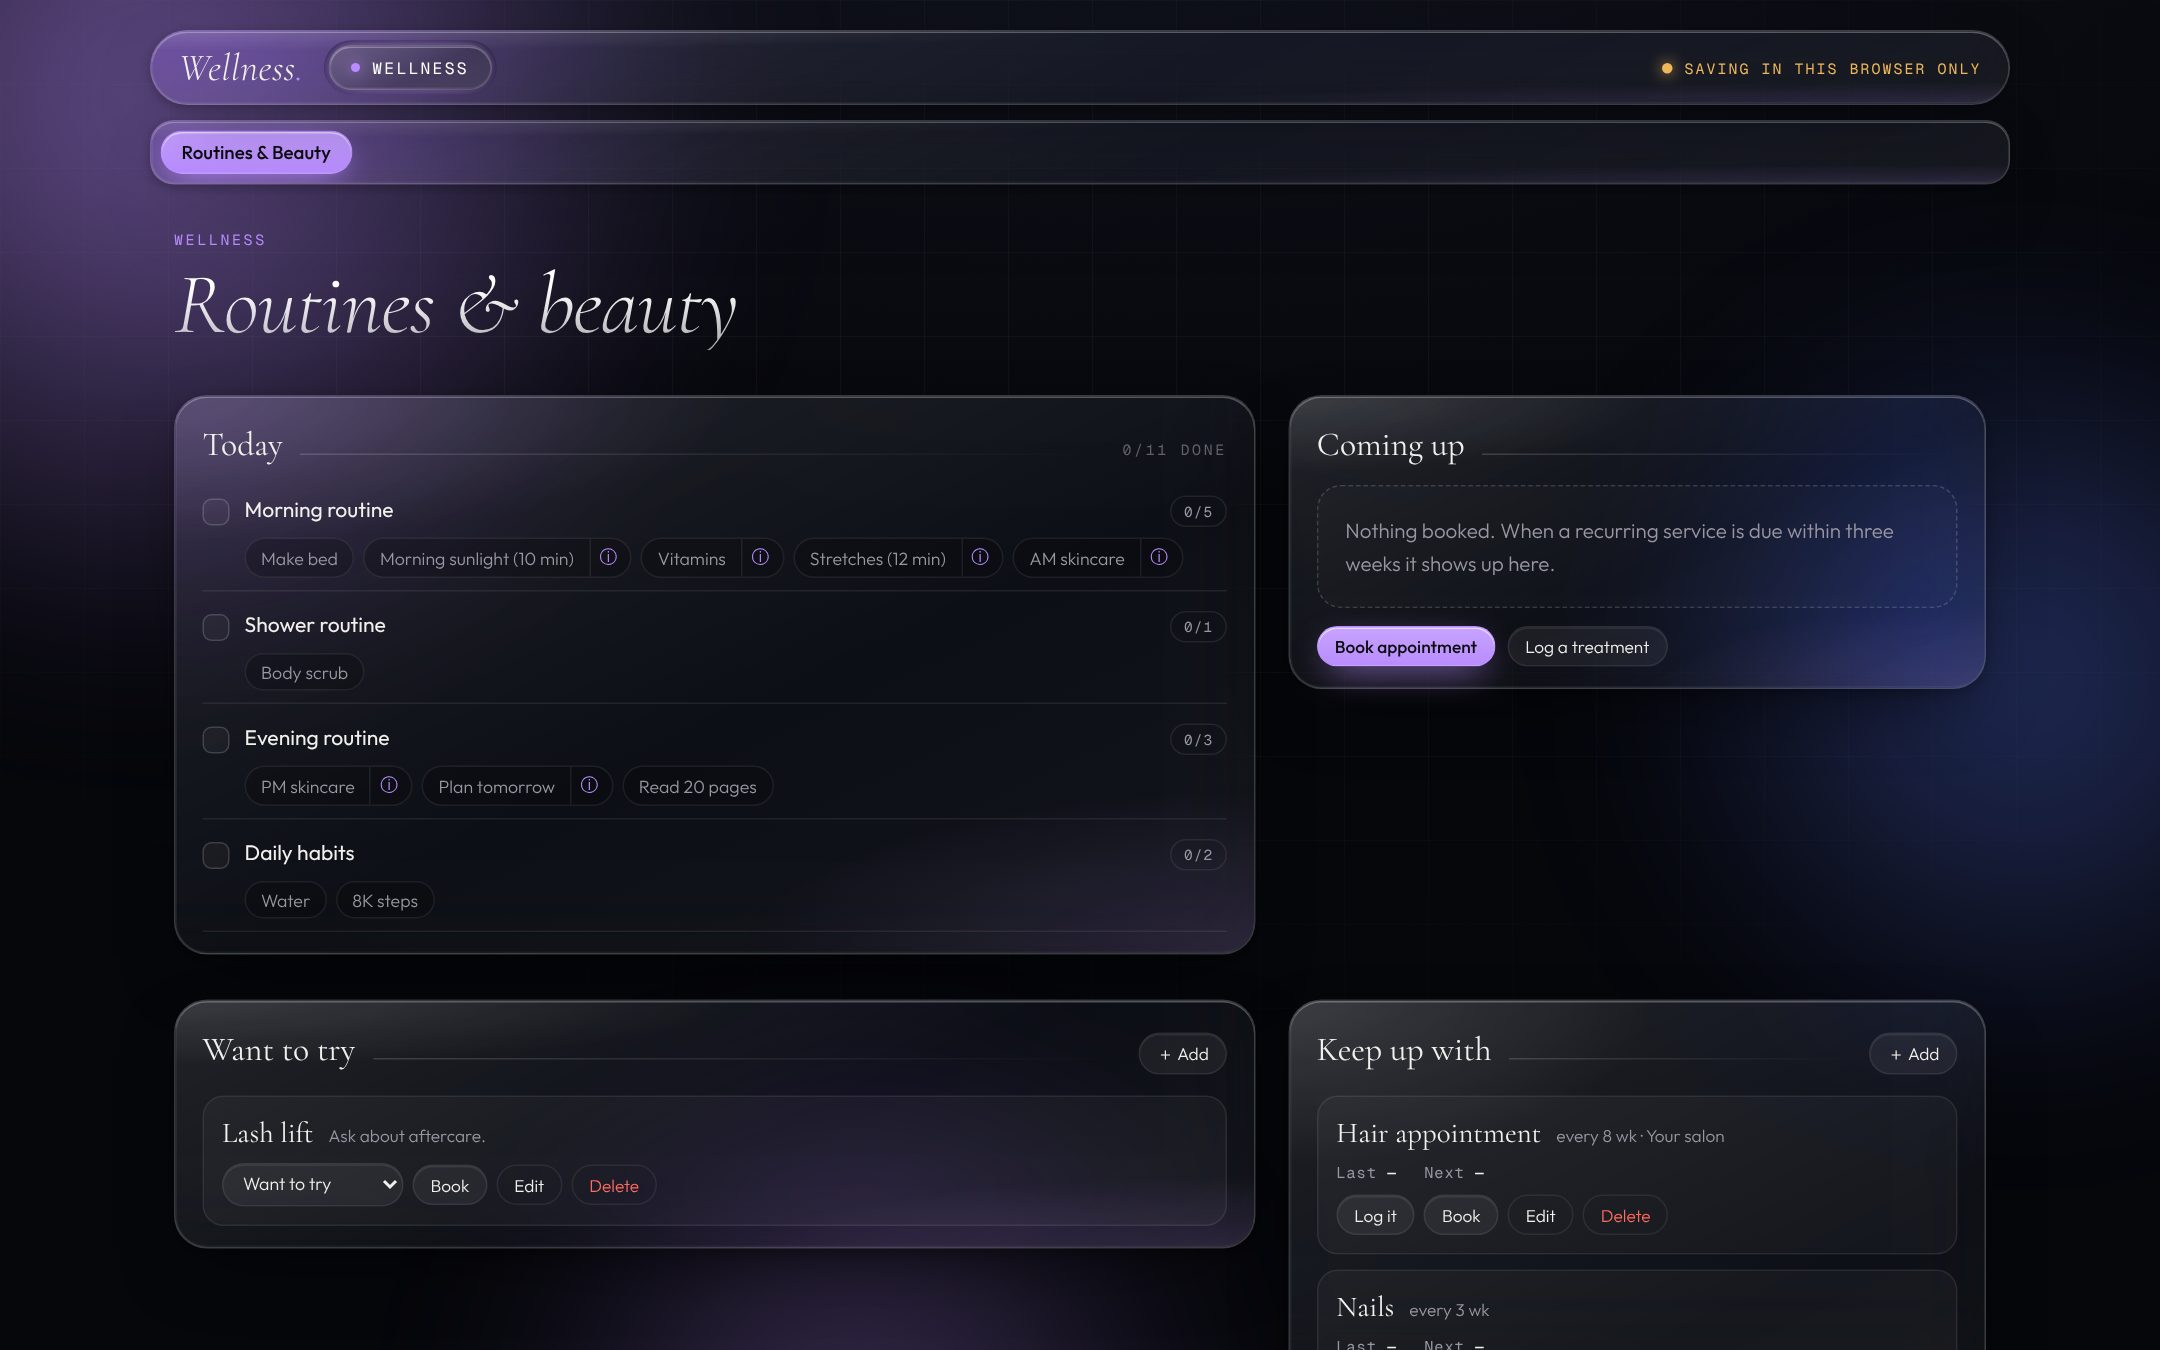
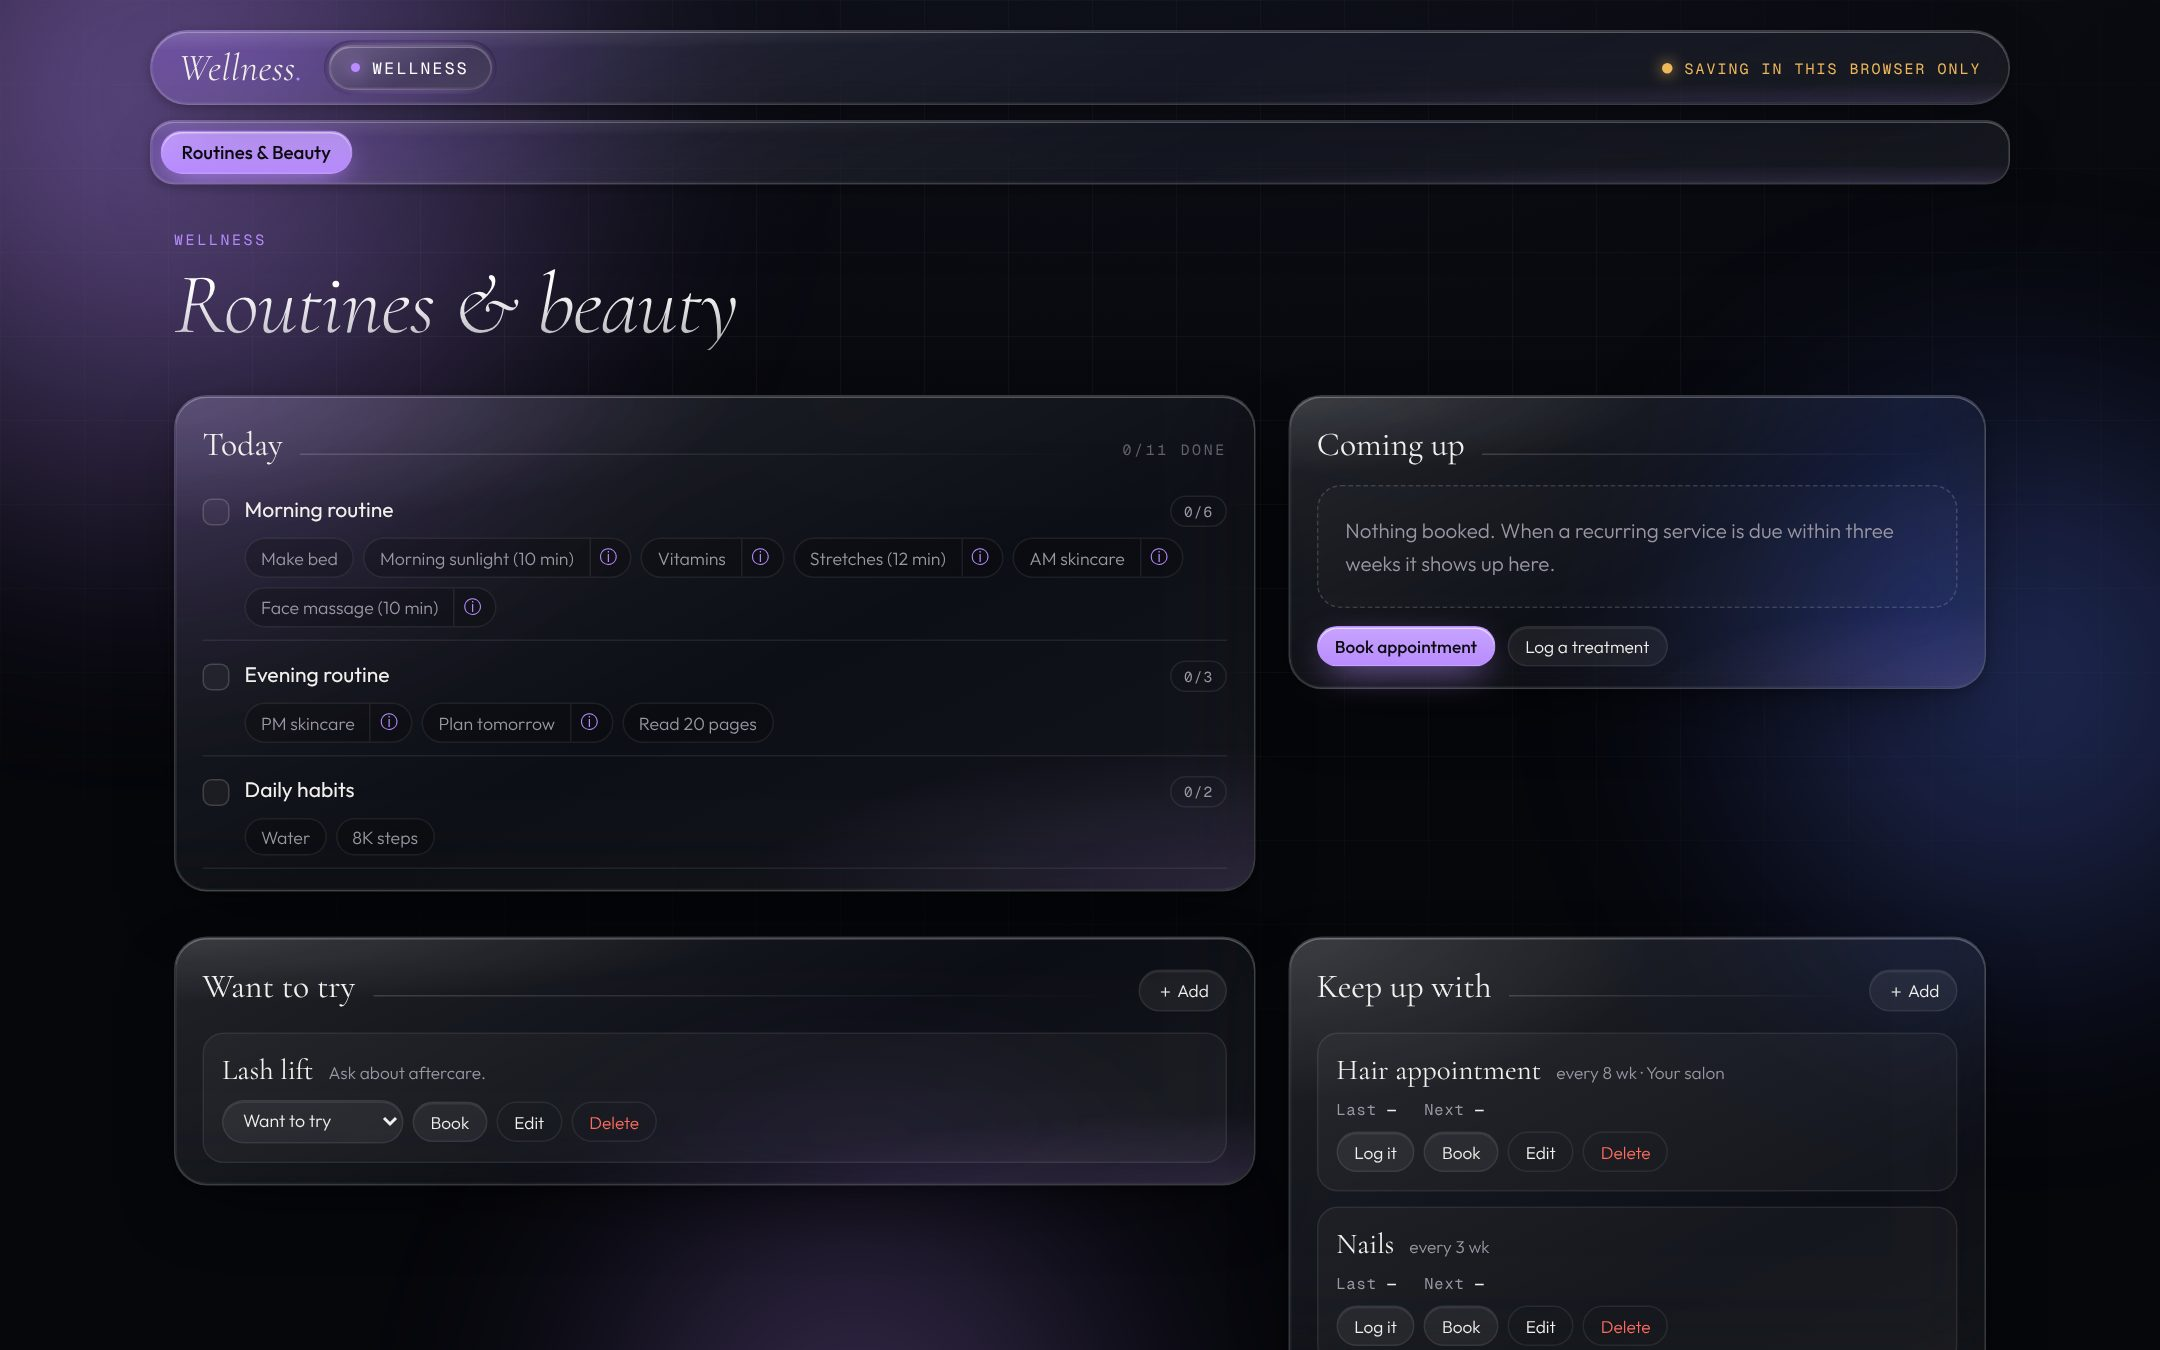
Fix loading overlay, refresh screenshot
Claude-Session: https://claude.ai/code/session_01CsNK5A8DbrxLAGp4MA6A5M

diff --git a/index.html b/index.html
@@ -64,6 +64,7 @@ a{color:inherit}
 .brand span{color:var(--accent);text-shadow:0 0 18px var(--accent)}
 .hubs{display:flex;gap:2px;overflow-x:auto;scrollbar-width:none;min-width:0;padding:3px;border-radius:999px;background:rgba(0,0,0,.22);box-shadow:inset 0 1px 2px rgba(0,0,0,.4)}
 .hubs::-webkit-scrollbar{display:none}
+.loading[hidden]{display:none!important}
 .qnotes{width:100%;min-height:150px;resize:vertical;background:transparent;border:1px solid var(--line, rgba(255,255,255,.12));border-radius:12px;padding:12px 14px;color:inherit;font:inherit;line-height:1.6;outline:none}
 .hubbtn.ext::after{content:'↗';margin-left:6px;opacity:.6}
 .hubbtn{background:none;border:1px solid transparent;border-radius:999px;padding:7px 14px;font-family:var(--mono);font-size:.68rem;letter-spacing:.14em;text-transform:uppercase;color:var(--muted);cursor:pointer;white-space:nowrap;display:flex;align-items:center;gap:8px;transition:color .2s,background .3s}
@@ -662,7 +663,8 @@ window.CONFIG={
   "variant": "wellness"
 };
 window.__DEMO={"wl_habits": [{"id": "bed", "name": "Make bed", "group": "Morning", "days": [1, 1, 1, 1, 1, 1, 1], "active": true, "steps": [], "products": []}, {"id": "sun", "name": "Morning sunlight (10 min)", "group": "Morning", "days": [1, 1, 1, 1, 1, 1, 1], "active": true, "steps": ["Step outside within an hour of waking.", "No sunglasses, 10 minutes, longer if it's cloudy."], "products": []}, {"id": "vit", "name": "Vitamins", "group": "Morning", "days": [1, 1, 1, 1, 1, 1, 1], "active": true, "steps": ["Take them with breakfast.", "Add your own list here."], "products": []}, {"id": "mob", "name": "Stretches (12 min)", "group": "Morning", "days": [1, 1, 1, 1, 1, 1, 1], "active": true, "steps": ["Cat-cow × 10.", "Low-lunge hip flexor stretch, 45 s each side.", "Half split, 45 s each side.", "Figure-4 for the outer hip.", "Butterfly, 1 min."], "products": ["Yoga mat"]}, {"id": "am", "name": "AM skincare", "group": "Morning", "days": [1, 1, 1, 1, 1, 1, 1], "active": true, "steps": ["Cleanse.", "Vitamin C.", "Moisturizer, then SPF."], "products": []}, {"id": "face", "name": "Face massage (10 min)", "group": "Morning", "days": [1, 0, 1, 0, 1, 0, 1], "active": true, "steps": ["Neck and shoulders first.", "Jaw, then lift under the cheekbones.", "Light circles around the eyes, sweep to the temples.", "Sweep down the neck × 5."], "products": ["Facial oil"]}, {"id": "hair", "name": "Hair wash", "group": "Shower", "days": [1, 0, 0, 1, 0, 0, 0], "active": true, "steps": ["Shampoo the scalp twice.", "Condition mid-lengths to ends.", "Leave-in with heat protection."], "products": []}, {"id": "scrub", "name": "Body scrub", "group": "Shower", "days": [0, 1, 0, 0, 0, 1, 0], "active": true, "steps": [], "products": []}, {"id": "pm", "name": "PM skincare", "group": "Evening", "days": [1, 1, 1, 1, 1, 1, 1], "active": true, "steps": ["Cleanse.", "Treatment serum.", "Moisturizer."], "products": []}, {"id": "plan", "name": "Plan tomorrow", "group": "Evening", "days": [1, 1, 1, 1, 1, 1, 1], "active": true, "steps": ["Pick tomorrow's top 3 priorities.", "Check the calendar."], "products": []}, {"id": "read", "name": "Read 20 pages", "group": "Evening", "days": [1, 1, 1, 1, 1, 1, 1], "active": true, "steps": [], "products": []}, {"id": "water", "name": "Water", "group": "Anytime", "days": [1, 1, 1, 1, 1, 1, 1], "active": true, "steps": [], "products": []}, {"id": "steps", "name": "8K steps", "group": "Anytime", "days": [1, 1, 1, 1, 1, 1, 1], "active": true, "steps": [], "products": []}], "wl_beauty": {"services": [{"id": "hair", "name": "Hair appointment", "kind": "recurring", "interval": "8", "provider": "Your salon", "notes": ""}, {"id": "nails", "name": "Nails", "kind": "recurring", "interval": "3", "provider": "", "notes": ""}, {"id": "brows", "name": "Brows", "kind": "recurring", "interval": "5", "provider": "", "notes": ""}, {"id": "lash", "name": "Lash lift", "kind": "want", "status": "Want to try", "notes": "Ask about aftercare."}], "log": [{"id": "lg1", "service": "hair", "date": "2026-09-28", "notes": "Gloss + trim"}], "appts": []}, "wl_extras": []};
-window.__DEMO_CAL=[];</script>
+window.__DEMO_CAL=[];
+window.__DEMO_INBOX=[];</script>
 <script>
 (function(){
 'use strict';
@@ -676,7 +678,11 @@ const HUBS = {
   work:   {label:'Work', color:'var(--work)', groups:[
     ['', [['ventures','Ventures',null],['money','Money','money']]],
   ]},
-  social: {label:'Social', color:'var(--social)', off:true, groups:[]},
+  social: {label:'Social Studio', short:'Studio', color:'var(--social)', off: CONFIG.variant !== 'social', groups:[
+    ['', [['studio','Studio',null],['partners','Partners & Affiliate',null],['calendar','Content Calendar','content-calendar']]],
+    ['Platforms', [['instagram','Instagram','instagram'],['tiktok','TikTok','tiktok'],['youtube','YouTube','youtube']]],
+    ['Growth', [['deals','Brand Deals','brand-deals'],['inspo','Inspo Board','inspo'],['analytics','Analytics','analytics']]],
+  ]},
   life:   {label:'Life', color:'var(--life)', groups:[
     ['Personal', [['plans','Plans',null],['diary','Diary','diary'],['notes','Notes','notes'],['vision','Vision Board','vision-board'],['prayer','Prayer','prayer'],['library','Books & Media','library']]],
     ['Wellness', [['wellness','Routines & Beauty',null]]],
@@ -693,12 +699,12 @@ for (const [hub, h] of Object.entries(HUBS)) {
     if (src) BYSRC[src] = id;
   }));
 }
-const INCLUDE = {all:['hq','work','life'], wellness:['life']}[CONFIG.variant] || ['hq','work','life'];
+const INCLUDE = {all:['hq','work','life'], wellness:['life'], social:['social']}[CONFIG.variant] || ['hq','work','life'];
 if (INCLUDE.includes('hq')) ROUTES.hq = {hub:'hq'};
 for (const k of Object.keys(HUBS)) if (!INCLUDE.includes(k)) HUBS[k].ext = (CONFIG.links || {})[k] || '';
 for (const id of Object.keys(ROUTES)) if (!INCLUDE.includes(ROUTES[id].hub) || (CONFIG.variant === 'wellness' && id !== 'life-wellness')) delete ROUTES[id];
 if (CONFIG.variant === 'wellness') { HUBS.life.label = 'Wellness'; HUBS.life.groups = [['', [['wellness','Routines & Beauty',null]]]]; }
-const FIRST = {work:'work-ventures', social:'work-ventures', life: CONFIG.variant === 'wellness' ? 'life-wellness' : 'life-plans'};
+const FIRST = {work:'work-ventures', social: CONFIG.variant === 'social' ? 'social-studio' : 'work-ventures', life: CONFIG.variant === 'wellness' ? 'life-wellness' : 'life-plans'};
 const DEFAULT_ROUTE = INCLUDE.includes('hq') ? 'hq' : FIRST[INCLUDE[0]];
 const HOME_OF = src => {
   if (src === 'life-wellness') return 'life-wellness';
@@ -924,6 +930,7 @@ const TODO_SOURCES = [
   {key:'biz_cotech_todos', label:'Work', hub:'work', route:'work-ventures'},
   {key:'biz_entertainment_todos', label:'Work', hub:'work', route:'work-ventures'},
   {key:'life_personal_todos', label:'Life', hub:'life', route:'life-plans'},
+  {key:'biz_social_todos', label:'Social', hub:'social', route:'social-partners'},
 ];
 const readJSON = (k, d) => { try { const v = KV[k]; return v ? JSON.parse(v) : d; } catch(e){ return d; } };
 function openTodos(){
@@ -972,12 +979,14 @@ const AREAS = {
   social: [['studio','Studio']],
   life:   [['personal','Personal'],['diary','Diary'],['wellness','Wellness'],['social-life','Social Life'],['elevation','Elevation']],
 };
+if (CONFIG.variant === 'social') { delete AREAS.work; delete AREAS.life; }
 const AREA_ROUTE = {'work/companies':'work-companies','work/entertainment':'work-entertainment','social/studio':'social-studio',
   'life/personal':'life-personal','life/diary':'life-diary','life/wellness':'life-wellness','life/social-life':'life-social','life/elevation':'life-elevation'};
 const AREA_TODO = {'work/companies':'biz_cotech_todos','work/entertainment':'biz_entertainment_todos','social/studio':'biz_social_todos','life/elevation':'biz_elevation_todos'};
 const LIFE_CO = {diary:'Diary', 'social-life':'Calendar'};
 const ACCOUNTS = CONFIG.accounts;
-let INBOX = [];         // [{id, ...data}]
+let INBOX = [];
+if (CONFIG.variant === 'social' && /[?&]demo\b/.test(location.search) && window.__DEMO_INBOX) INBOX = window.__DEMO_INBOX.map(x => ({archived:false, actions:{}, status:'done', hub:'social', area:'studio', ...x}));         // [{id, ...data}]
 let hqFilter = 'all', studioAcct = null;
 const routeKey = it => (it.hub || 'life') + '/' + (it.area || '');
 const routeLabel = it => { const a = (AREAS[it.hub]||[]).find(x => x[0] === it.area); return (HUBS[it.hub]?.label || '') + (a && it.hub !== 'social' ? ' · ' + a[1] : ''); };
@@ -1011,6 +1020,7 @@ function mountComposer(id, hint){
   const host = $('#composer-' + id);
   host.innerHTML = composerHTML(id);
   if (hint) $('#cs-' + id).value = hint;
+  if (CONFIG.variant === 'social') { $('#cs-' + id).value = 'social'; $('#cs-' + id).hidden = true; $('#cb-' + id).textContent = 'Break it down'; }
   const f = $('#cfile-' + id), th = $('#cth-' + id);
   f.addEventListener('change', () => {
     const file = f.files && f.files[0];
@@ -1059,7 +1069,7 @@ Their social accounts: ${ACCOUNTS.map(a => a[0]).join(', ')}.
 Where items can go (hub / area):
 - work / companies: ${CONFIG.areas.companies}
 - work / entertainment: ${CONFIG.areas.creative}
-- life / personal, life / diary, life / wellness (fitness, skincare, food, sleep), life / social-life (events, parties, friends), life / elevation (learning, money, investing, culture, books, courses)
+${CONFIG.variant === 'social' ? '- social / studio: content ideas, trends, formats, hooks, inspiration and creators to learn from, for one of their accounts\n' : ''}- life / personal, life / diary, life / wellness (fitness, skincare, food, sleep), life / social-life (events, parties, friends), life / elevation (learning, money, investing, culture, books, courses)
 ${d.hint && d.hint !== 'auto' ? `\nThey asked for this to go to the "${d.hint}" hub; pick the best area inside it.` : ''}
 
 The item they dropped in:
@@ -1067,7 +1077,7 @@ The item they dropped in:
 ${d.text || '(no text)'}
 """
 ${d.hasImage ? 'A screenshot is attached; read it.' : ''}
-You cannot open links. If all you have is a bare link with no caption, note, or screenshot, say so plainly in the summary and do not invent what the video or page contains; base everything on what she wrote.
+You cannot open links. If all you have is a bare link with no caption, note, or screenshot, say so plainly in the summary and do not invent what the video or page contains; base everything on what they wrote.
 
 Reply with only one JSON object:
 {"kind":"tiktok|video|post|article|product|event|person|idea|task|note|other",
@@ -1977,7 +1987,7 @@ go(ROUTES[startRoute] ? startRoute : DEFAULT_ROUTE);
 function useLocal(reason){
   mode = 'local';
   try { Object.assign(KV, JSON.parse(localStorage.getItem('ptc_' + CONFIG.variant + '_kv') || '{}')); } catch(e){}
-  if (/[?&]demo\b/.test(location.search) && window.__DEMO) for (const [k, v] of Object.entries(window.__DEMO)) if (KV[k] == null) KV[k] = (typeof v === 'string' ? v : JSON.stringify(v)).split('__TODAY__').join(new Date().toLocaleDateString('en-CA'));
+  if (/[?&]demo\b/.test(location.search) && window.__DEMO) for (const [k, v] of Object.entries(window.__DEMO)) if (KV[k] == null) KV[k] = (typeof v === 'string' ? v : JSON.stringify(v)).replace(/__TODAY(?:_P(\d+))?__/g, (m, n) => { const t = new Date(); t.setDate(t.getDate() + (+n || 0)); return t.toLocaleDateString('en-CA'); });
   if (KV.hq_brief) KV.hq_brief = String(KV.hq_brief).replace('__TODAY__', new Date().toLocaleDateString('en-CA'));
   setSync(reason, true);
   kvReadyResolve(); renderInboxViews(); if (current === 'hq') renderHQ();
